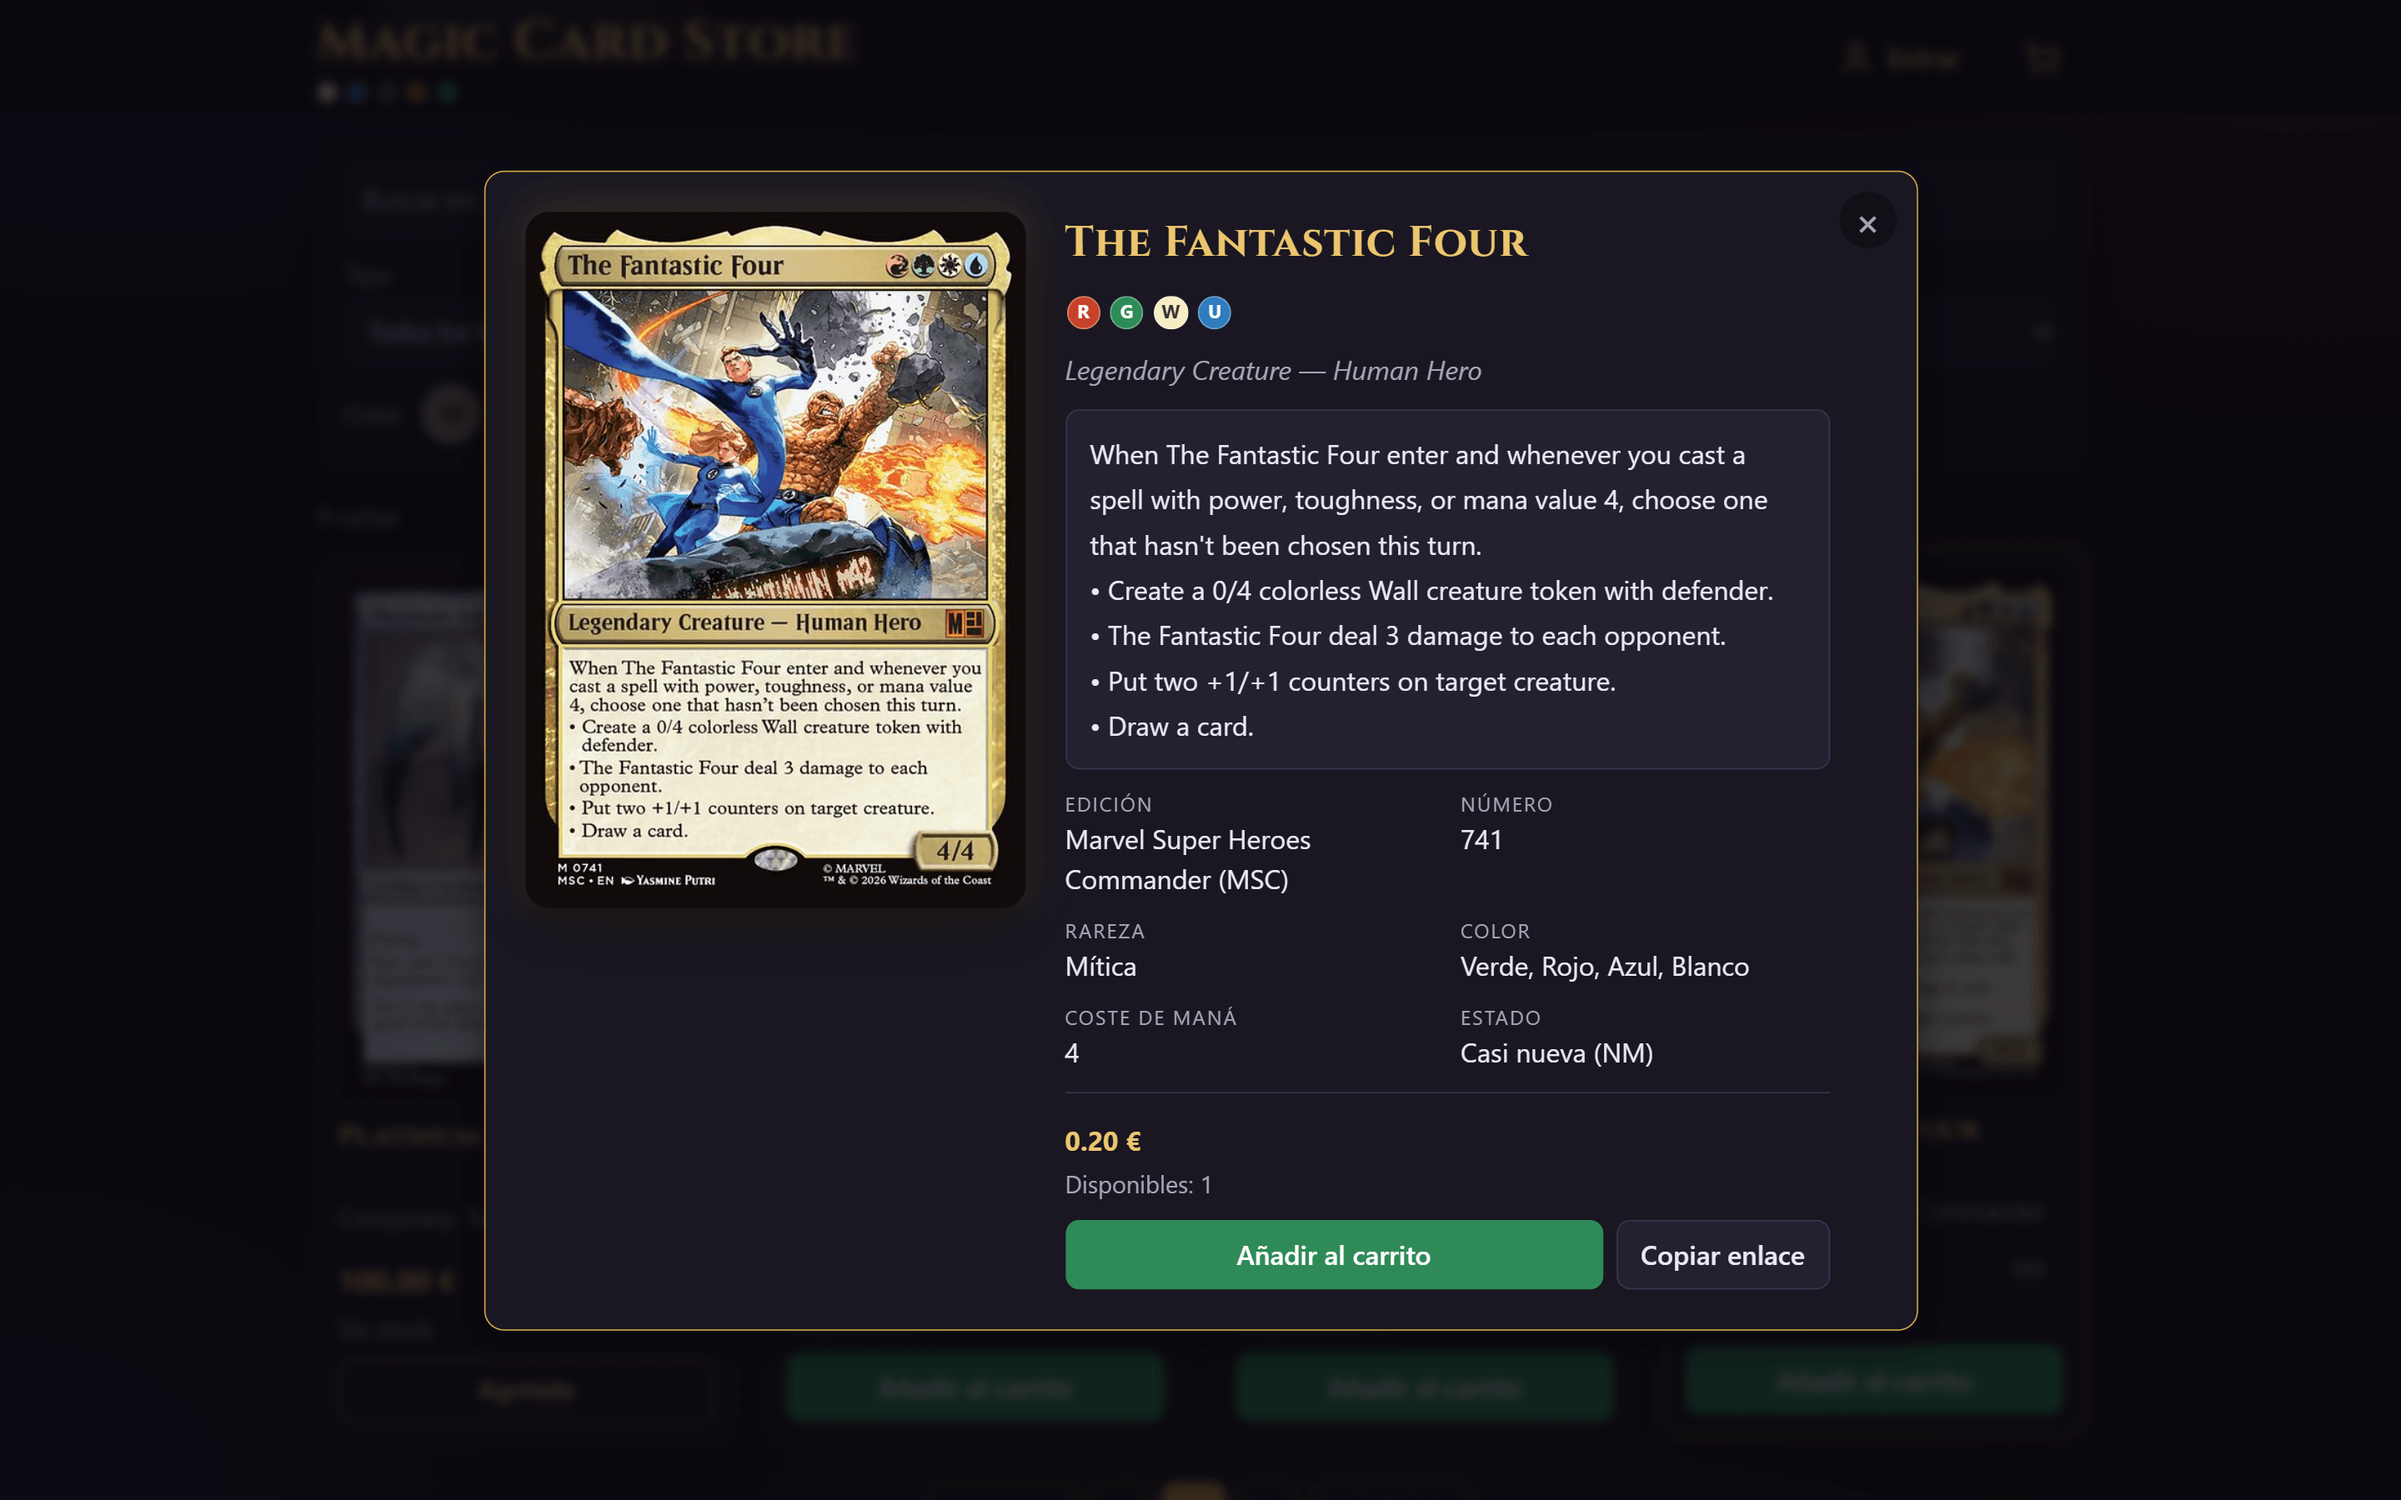
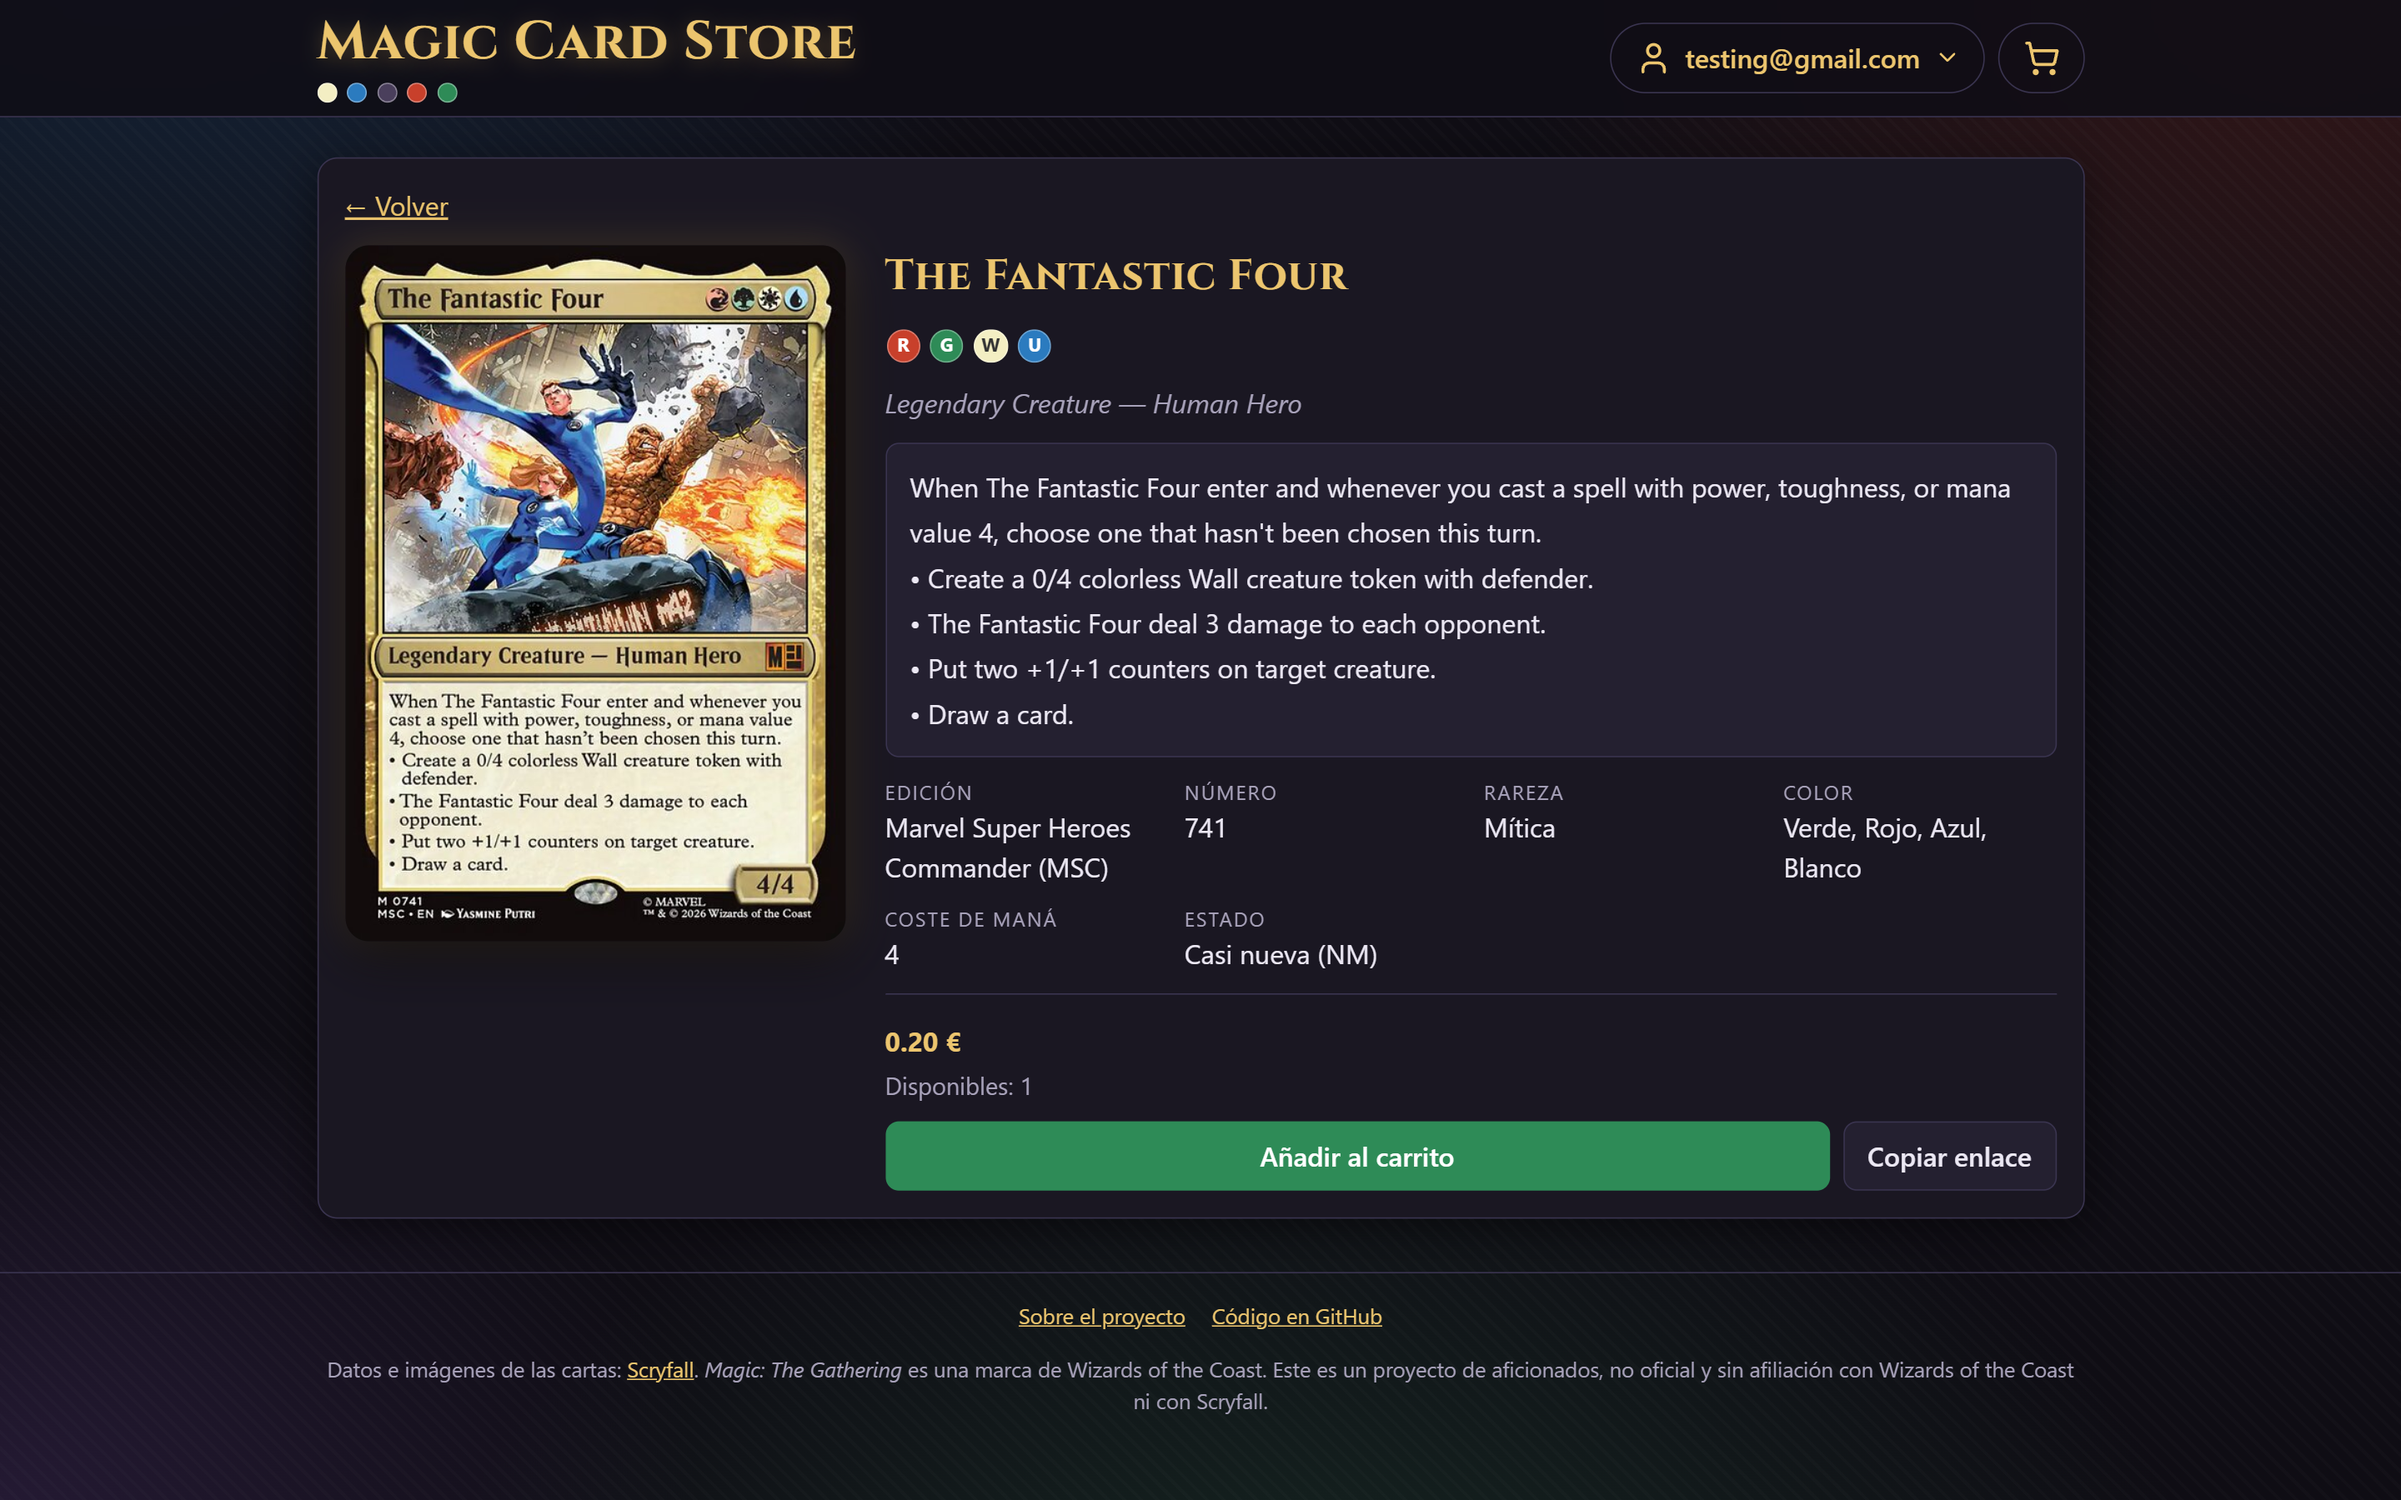
docs: refresh screenshots for routed pages and add order detail and about page captures

diff --git a/README.md b/README.md
@@ -22,25 +22,30 @@ El catálogo es público y se puede consultar sin iniciar sesión. Para probar e
 
 ![Catálogo filtrado por tipo y color, con paginación](docs/02-filtros.png)
 
-### Detalle de una carta
+### Ficha de una carta
 
-![Detalle de una carta con texto de reglas y símbolos de maná](docs/03-detalle.png)
+![Ficha de una carta con texto de reglas y símbolos de maná](docs/03-detalle.png)
 
-### Carrito
+### Carrito y pedidos
 
 ![Carrito con varias cartas y el total](docs/04-carrito.png)
 
-### Administración
+![Detalle de un pedido con sus líneas, el total y el estado](docs/09-pedido-detalle.png)
 
-![Panel de administración para añadir y gestionar cartas](docs/05-admin-anadir.png)
+### Panel de administración
+
+![Gestión de cartas: formulario de añadir y tabla editable](docs/05-admin-anadir.png)
 
 ![Gestión de pedidos de la tienda](docs/06-admin-pedidos.png)
+
+### Sobre el proyecto
+
+![Página «Sobre el proyecto» con el diagrama de arquitectura](docs/10-proyecto.png)
 
 ### Móvil
 
 <p align="center">
-  <img src="docs/07-movil-catalogo.png" width="260" alt="Catálogo en móvil" />
-  <img src="docs/08-movil-detalle.png" width="260" alt="Detalle de una carta en móvil" />
+  <img src="docs/08-movil-detalle.png" width="260" alt="Ficha de una carta en móvil" />
 </p>
 
 ## Funcionalidades
